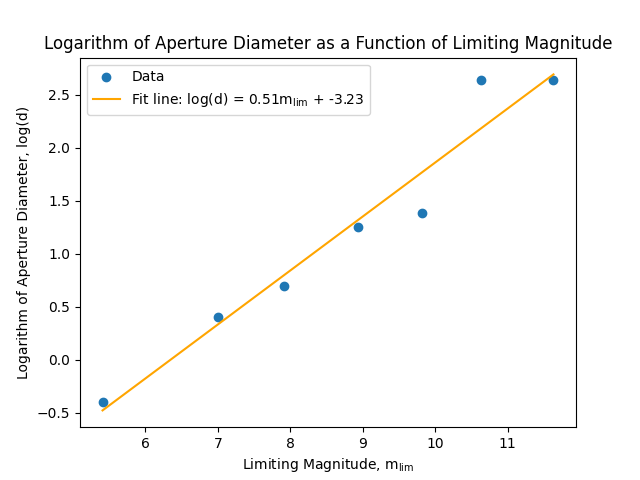
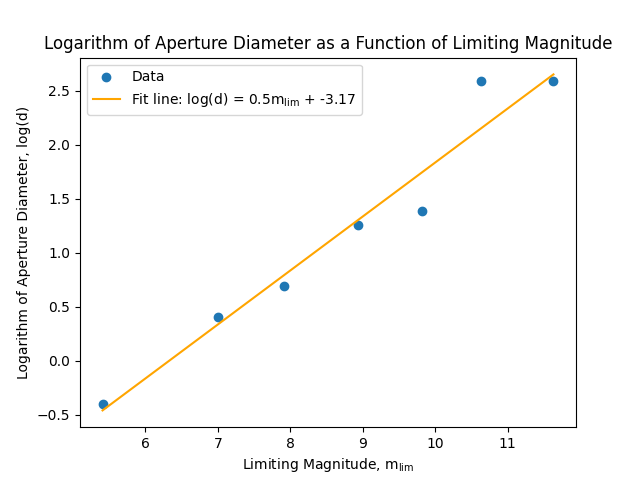
Regenerate plot, accounting for seceondary mirror

diff --git a/Lab 2/question3-m_lim-vs-d/question3-regression.py b/Lab 2/question3-m_lim-vs-d/question3-regression.py
@@ -10,7 +10,7 @@ from scipy.optimize import curve_fit
 m_lim = [5.41, 7.00, 7.91, 8.94, 9.81, 10.63, 11.63]  # exclude 12.88 because H star was not visible on baseline 14-inch
 
 # define dependent variable d, the smallest aperture diameter through which each star could be seen
-d = [0.67, 1.5, 2, 3.5, 4, 14, 14]
+d = [0.67, 1.5, 2, 3.5, 4, 13.26, 13.26]
 # convert to logspace
 log_d = np.log(d)
 print(log_d)
